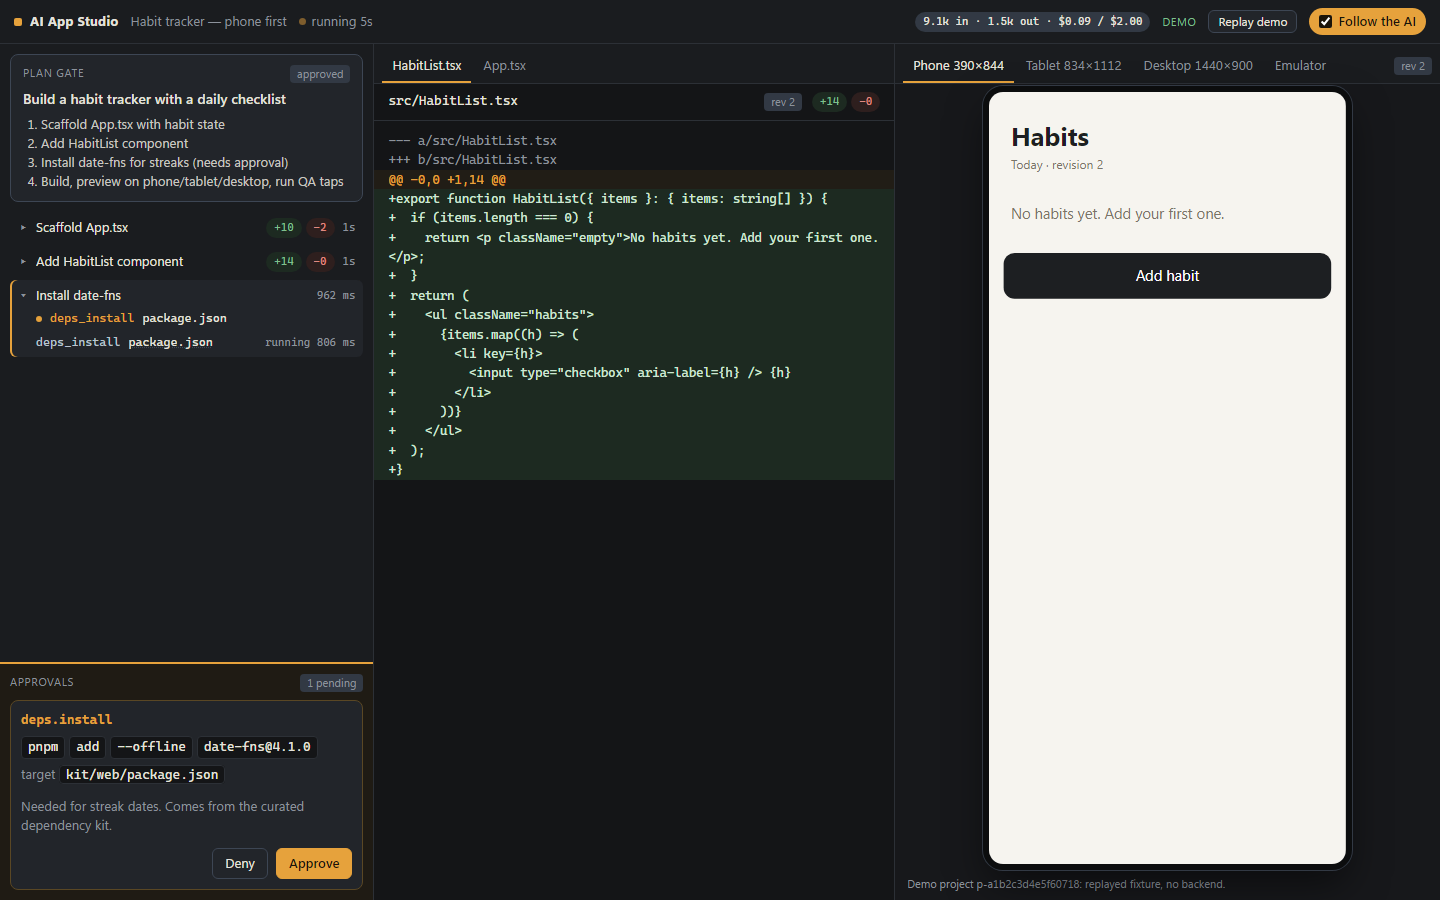
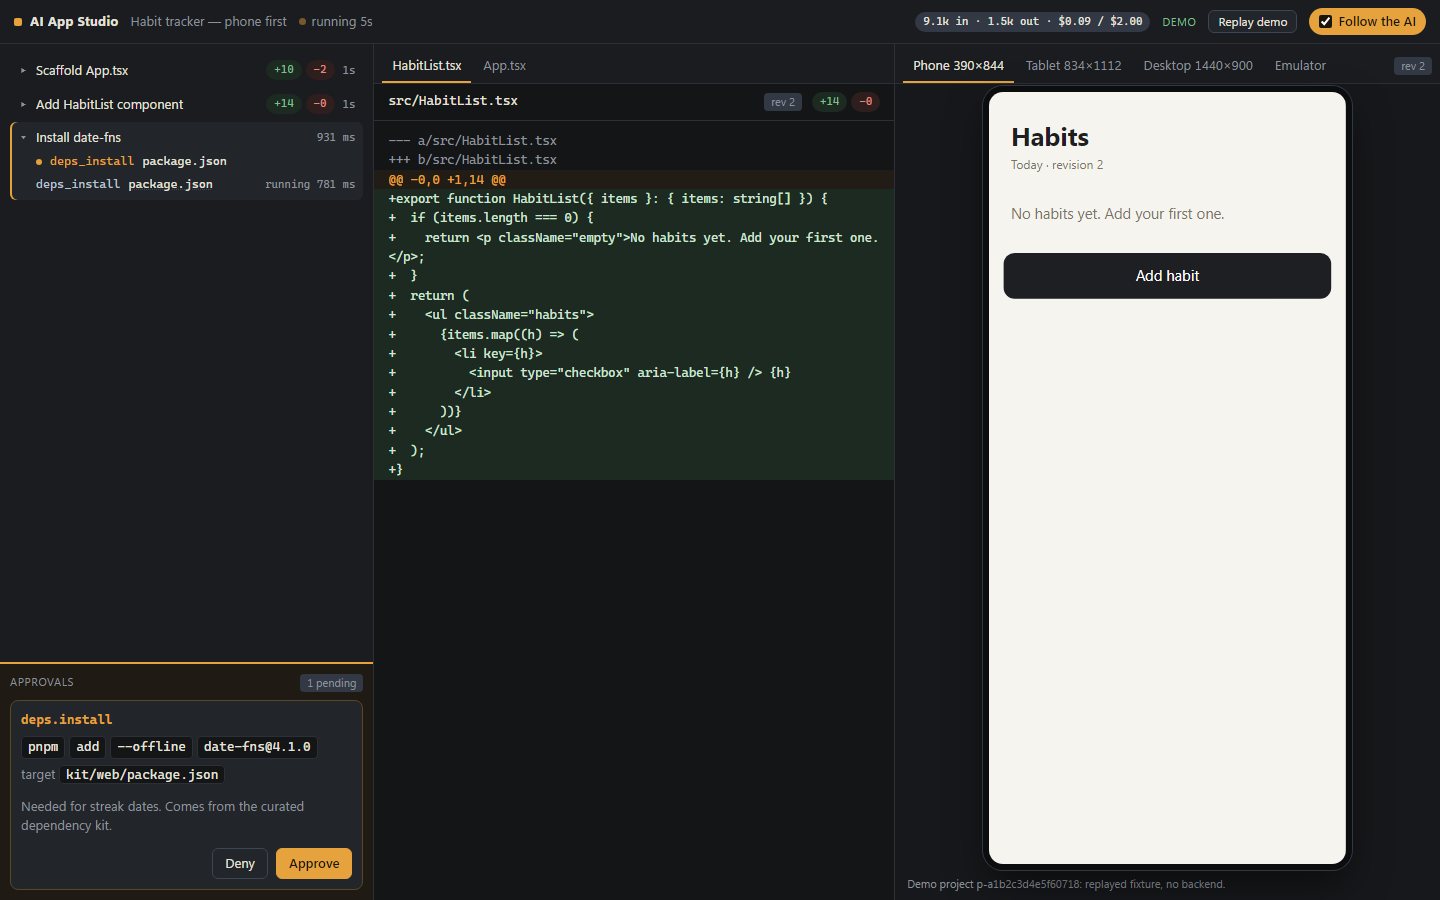
AI App Studio S6: documentatie (S6.md, CHECKPOINT, DESIGN 5.3 reziduuri, captura ecranului real) si todo

diff --git a/03_IMPLEMENTATION/products/ai_app_studio/docs/slices/S6.md b/03_IMPLEMENTATION/products/ai_app_studio/docs/slices/S6.md
@@ -1,0 +1,91 @@
+# Slice S6 - built-in runner + wiring into one app (2026-11-23)
+
+Branch `claude/ai-app-studio` (local commits only, nothing pushed). Builds on S1-S5.
+
+## What
+- `core/aas_runner/` - built-in runner. `claude.py`: `build_argv` (DESIGN 6.1: prompt on stdin, `--strict-mcp-config`
+  with only `ai-app-studio`, `--tools ""` + allow-list of the catalogue tools, `--disallowedTools` for every built-in
+  that touches files/shell/network, `--setting-sources ""`, `--settings` studio file, `--max-turns`, `--max-budget-usd`,
+  `--include-partial-messages`), `runner_env` (SYSTEMROOT, PATH, USERPROFILE, APPDATA, LOCALAPPDATA only; no `AAS_*`, no
+  tokens), `Runner.start/stop/wait/is_running` (cwd = fresh EMPTY `<data>/runner/runs/<runId>`, TEMP outside it, process
+  tree killed on stop/timeout, grant and run dir removed at the end). `streamjson.py`: `StreamMapper` (per event type
+  field allow-list; thinking dropped and counted; tool results = size + sha256 + 300-char redacted excerpt; `result` ->
+  `cost.update` + `run.finished`; text deltas line-buffered and redacted; unknown types counted into one
+  `stream.dropped`), `check_init` (P5e/N3: `mcp_servers` must be exactly `["ai-app-studio"]`, tools a subset of the
+  catalogue, else the run is aborted and the process killed).
+- `core/studio_core/run_grants.py` - the built-in runner is not an "external" MCP client: its MCP child gets a per-run
+  secret in its own env; only sha256 of it is stored while the run lives; the MCP server accepts a call with a live
+  grant (bound to ONE project) or when the owner enabled external MCP (PX1 unchanged).
+- MCP server (`apps/mcp-app/server.py`): grant/owner guard, `plan_submit`, `app_build` (real), `device_start|install|tap|
+  screenshot`, `file.diff` events on `code_write_file`, `project_list` limited to the run's project under a grant.
+- `core/aas_build/service.py` - project files + studio kit -> `docker run --network none` (S3 runner) -> `site-<ms>` +
+  atomic `current` pointer -> preview server; events `build.started`, `build.log`, `build.error`, `build.finished`,
+  `preview.captured`; one build at a time; a failed build keeps the last good site. `python -m aas_build` = preview
+  server (17880). N1: the S3 watchdog now also kills the container above `max_files` (and `resolve_image`).
+- `core/aas_device/service.py` - device tools behind the owner setting `device_enabled` (default OFF, owner-only
+  route `PUT /api/v1/settings/device`), refused below 8 GiB free on the system/LOCALAPPDATA drive or when the S5
+  preflight fails; only `apps.device_host.launcher.preflight` / `DeviceSession` are used.
+- Backend (follow-ups from S2/S4 reviews): `GET /approvals` (generic + `kind:"plan"` records), `POST /approvals/<id>/decide`,
+  `POST /plans/<id>/decide` (`approve` | `edit`), `POST /runs`, `POST /runs/<id>/stop` - owner token only, agent actors
+  refused by policy (`plans.py`); activity kinds `cost.update`, `preview.captured` (migration 0004) and field names the
+  UI reads (`title`, `budgetUsd`, `stepId`, `callId`, `target`, `line`, `path`, `revision`); sanitiser: DCS stops at
+  newline/CR/end, OSC also at CR, U+034F/U+115F/U+180E/U+3164 dropped; `audit.redact` F1 (digest kept under hash keys)
+  and F2 (keys sanitised first). `AAS_DEV_ORIGINS` (strict `http://127.0.0.1:<port>`, process env only) lets the vite
+  dev/preview UI call the API; the preview server's `frame-ancestors` gets the same origins (opt-in).
+- Desktop: `clean()` drops and `inspect()` flags the four fillers, CSI needs its final byte, `prj_<hex>` ids map to the
+  preview host label, iframes reload on every `preview.captured`/`preview.revision` (`previewNonce`; a `file.diff`
+  already raises the revision before the build is done), Tauri attach mode (`AAS_ATTACH_BACKEND=1`, token on stdin),
+  the shell now starts `python -m apps.backend` (the old `main.py` path could not import its package),
+  `apps/desktop/scripts/studio_window.mjs` (Chromium window with the session injected, token on stdin).
+- `scripts/run_studio.ps1` - one command: token (CSPRNG, memory only) -> backend on stdin -> preview server -> vite dev ->
+  Tauri debug exe (or Chromium window) with the same token on stdin -> everything stopped on exit. `-Prompt/-PromptFile`
+  creates a project and starts a run; `-RunnerCli` swaps the agent CLI (fake fixture); `-NoUi` for tests.
+
+## How to run
+```
+$env:TMP = $env:TEMP = "D:\w\_aas_tmp6"; $env:UV_CACHE_DIR = "D:\w\_aas_uvcache"
+cd 03_IMPLEMENTATION\products\ai_app_studio
+uv run pytest -q                                      # 399 passed, 20 skipped (device/local-gate probes)
+cd apps\desktop; pnpm exec tsc --noEmit; pnpm exec vitest run; pnpm exec playwright test
+# end to end with the real desktop window and the fake CLI:
+$env:AAS_TAURI_EXE = "<cargo target>\debug\ai-app-studio.exe"   # cargo build --locked in apps/desktop/src-tauri
+scripts\run_studio.ps1 -Ui tauri -PromptFile demo_prompt.json -RunnerCli '["<venv python>","tests/fixtures/fake_claude.py"]'
+# real agent: scripts\run_studio.ps1 -Prompt "Build a habit tracker" (needs the owner's Claude login)
+```
+
+## Results
+- Red runs: runner/streamjson/P5e tests -> 3 collection errors (`No module named 'aas_runner'`); N1 watchdog test ->
+  `Regex pattern did not match` (the file flood was not killed); wiring tests -> 2 collection errors (`aas_device`);
+  vitest sanitiser follow-ups -> 5 failed, `prj_` preview id -> 2 failed, preview nonce -> 1 failed; preview frame
+  ancestors -> `TypeError ... extra_frame_ancestors`; the first UI screenshot showed `OFFLINE` (origin not allowed) and a
+  blank phone frame (frame-ancestors), both fixed. (The `test_s6_backend.py` file was written before `plans.py` but its
+  first run was already green after the implementation; no separate red capture.)
+- `uv run pytest -q`: 399 passed, 20 skipped (baseline 336 passed). `apps/desktop`: tsc clean, vitest 82 passed, Playwright
+  11 passed. `check_vendored` OK in both modes, `gen_vendored --check` OK.
+- P5e/N3 against the real CLI 2.1.328 (`tests/runner/test_p5e_real_cli.py`): positive control - with a fixture
+  `CLAUDE_CONFIG_DIR` holding a user-scope MCP server `canary` and a `CLAUDE.md` marker, plain `claude -p ... stream-json`
+  lists `canary` in `system/init`; with the runner flags `mcp_servers == ["ai-app-studio"]` and the tool list passes
+  `check_init`. `--setting-sources ""` is accepted by this CLI (DESIGN 9.1 answered). The CLAUDE.md marker is not visible
+  in init, so only the MCP half of the fixture is observable.
+- End to end (`tests/e2e/test_s6_e2e.py`, 12 s): create project -> `POST /runs` -> fake CLI calls the REAL MCP server
+  (`plan_submit`, `project_inspect`, `code_write_file`, `app_build`) -> file written -> real offline Docker build ->
+  `p-<id>.localhost` serves the bundle -> second run -> bundle replaced -> the UI shows steps, diff, build log, cost and
+  the plan card. `S6-e2e.png` = the REAL Tauri debug window (screen capture, `scripts/run_studio.ps1 -Ui tauri`);
+  `S6-e2e-playwright.png` = headless Chromium against `vite preview` (test run).
+- `tests/e2e/test_run_studio_script.py`: `run_studio.ps1 -NoUi` serves health, no 40+ hex string on any studio command
+  line, `/projects` without a token is 401, ports are free again after the backend dies.
+
+## Residuals / open items
+- The UI has no "start a run" control yet: runs start from `run_studio.ps1 -Prompt`, `POST /api/v1/runs` or an owner
+  enabled external Claude Code. A prompt box is the next UI task.
+- P5f is NOT enforced: `plan_submit` + owner decision exist, but `code_write_file` does not require an approved plan and
+  the runner does not wait for `plan.decide` (two-phase run) - needs the owner toggle (DESIGN 5.5).
+- `app_build` streams its log only after the build ends (the S3 runner keeps ring buffers); Android build, device install
+  of an APK and `preview_capture` are still `unavailable`; all device probes stay deferred (C: < 8 GiB at S5 time).
+- `tool.call` rows written by `Studio.operation` carry no run id/callId (DESIGN 5.3 residual 4); file bodies are not
+  streamed as `agent.typing` (only text deltas are).
+- Real agent runs were not executed (no model spend); everything above used the fake CLI and the real CLI only up to `system/init`.
+- Playwright needs `chromium_headless_shell` of the pinned version (`playwright install chromium-headless-shell`);
+  here it lives in `D:\w\_aas_pw` (`PLAYWRIGHT_BROWSERS_PATH`). Headed Chromium 1255 crashed at start on this OS build
+  (exit 0x80000003); the Tauri window is the owner-facing UI, so `-Ui window` is untested.
+- Caches kept on D: (owner rule): `_aas_uvcache`, `_aas_pnpm`, `_aas_pw`, `_aas_cargo_target`, `_aas_cargo_home`.

diff --git a/03_IMPLEMENTATION/products/ai_app_studio/docs/CHECKPOINT.md b/03_IMPLEMENTATION/products/ai_app_studio/docs/CHECKPOINT.md
@@ -100,3 +100,18 @@ Next after S2 (appended)
 - S3 = build pipeline (Docker, offline web build with the studio-owned kit) + preview server (17880) + CSP header.
 - Then device host/emulator, runner, desktop UI as in DESIGN.md; each slice local only.
 - Last: final gate as in Key facts (fable-consultant, then Codex/Gemini via agent-bridge, repeat until clean), then push + PR + CI + merge.
+
+Update 2026-11-23 (S6 done, local commits on claude/ai-app-studio, nothing pushed)
+- S6 = built-in runner + wiring, see docs/slices/S6.md: core/aas_runner (Claude Code CLI -> stream-json -> activity_events,
+  P5e/N3 probe with positive control against the real CLI 2.1.328, fake CLI fixture for tests), run grants for the runner's
+  MCP child, MCP tools plan_submit/app_build (real offline Docker build -> preview)/device_*, device tools behind an owner
+  setting (off by default, off below 8 GiB free or on failed preflight), N1 (watchdog counts files), backend routes
+  approvals/plans/runs/device setting (owner only), UI field names + migration 0004, sanitiser fixes, audit.redact F1/F2,
+  DESIGN 5.3 residuals, desktop fixes (fillers, CSI, prj_ ids, preview reload nonce), Tauri attach mode,
+  scripts/run_studio.ps1 (token on stdin everywhere; Tauri debug exe or Chromium window).
+- Verified: uv run pytest -q 399 passed / 20 skipped; desktop tsc + vitest 82 + Playwright 11; check_vendored both modes and
+  gen_vendored --check OK; end to end with the fake CLI and the real Tauri window: docs/slices/S6-e2e.png.
+- Open: UI prompt box (runs start from run_studio.ps1 -Prompt / POST /runs); P5f plan gate not enforced on code_write_file;
+  Android build and preview_capture still unavailable; S5 live device probes still deferred; real (paid) agent run not done.
+- Next = final gate: fable-consultant verification of the whole app, its open questions to Codex/Gemini via agent-bridge,
+  security-lockdown skill, fix and repeat, then push + PR #413 + vault CI + merge.

diff --git a/03_IMPLEMENTATION/products/ai_app_studio/docs/DESIGN.md b/03_IMPLEMENTATION/products/ai_app_studio/docs/DESIGN.md
@@ -280,6 +280,18 @@ field) or redacted as free text (inside an input). Value patterns: `sk-ant-[\w-]
 `(?i)bearer\s+\S{16,}`, `(?i)(password|passwd|secret|token|api[_-]?key)\s*[:=]\s*\S+`, the live owner token
 (exact), hex/base64 runs >=40 chars with entropy >4.0 -> `[REDACTED:<kind>]`. The same function is added to
 `audit.redact` (key-name only today, audit.py:18-30) so audit rows and tool_executions get value redaction too.
+S6 updates: DCS/SOS/PM/APC bodies stop at newline, CR, ST or the end of the string (the newline is kept); an OSC
+also ends at CR; U+034F, U+115F, U+180E, U+3164 are dropped (the desktop client drops AND flags them, so Approve is
+disabled); `audit.redact` sanitises dict keys before the secret-key check and keeps a valid digest under a hash-named
+key verbatim (S2 review F1/F2); the client's CSI pattern requires its final byte.
+Residuals recorded (accepted, owner decision pending in the final gate): (1) a 64-hex value under a hash-named key
+(`sha256`, `*Sha256`) is kept verbatim, so a secret that is exactly 64 lowercase hex characters stored under such a
+key is not redacted - the typed fields only ever receive digests the studio computed itself; (2) the `stream.dropped`
+counter is in memory per process, so a process that dies after a failed write loses the pending count (the
+sequence-number gap marker still shows the hole); (3) the runner counts unknown stream-json fields per run and writes
+ONE `stream.dropped` row at the end of the run, not one per field; (4) `tool.call` rows written by
+`Studio.operation` carry no run id and no `callId`, so the UI shows them as separate rows next to the runner's own
+`tool.call`/`tool.result` pair of the same MCP call.
 ### 5.4 Transport (P6d, P6f)
 WS `/api/v1/events?afterSeq=N` behind BoundaryMiddleware (AWS:apps/backend/security.py:30-103: exact Host,
 Origin, token). The client offers two subprotocols: the fixed `aas.v1` and `aas.token.<t>` (order-free); the

diff --git a/00_GOVERNANCE/coordination/tasks/todo-claude-ai-app-studio.md b/00_GOVERNANCE/coordination/tasks/todo-claude-ai-app-studio.md
@@ -37,3 +37,15 @@ Update 2026-11-23 ~03:00:
   narrowed capability); S4.md says 6 vitest files, actual 5.
 - S5 claude/aas-s5 @ cfcdf2c3b: fixes done (80 tests), live probes DEFERRED until C: >= 8 GB; round-2 review running.
 - S3 claude/aas-s3: finishing worker running (Docker back up).
+
+Update 2026-11-23 ~04:00 (S6 done, local commits on claude/ai-app-studio, nothing pushed):
+- S6 delivered (docs/slices/S6.md): built-in runner + P5e/N3 probe (real CLI, positive control), run grants, MCP plan_submit/
+  app_build/device tools, build->preview wiring, device setting gates, N1, backend approvals/plans/runs routes, activity
+  field names + migration 0004, sanitiser/audit F1/F2, DESIGN 5.3 residuals, UI fixes (fillers, CSI, prj_ ids, preview
+  reload), Tauri attach mode + debug build launched (get_session works), scripts/run_studio.ps1, end-to-end with the fake CLI
+  and a screenshot of the real desktop window (docs/slices/S6-e2e.png). uv run pytest -q: 399 passed, 20 skipped.
+- S4 and S2 follow-ups (F1/F2/F3) are closed; DESIGN 5.3 residuals recorded.
+- Open: UI prompt box; P5f plan gate on code_write_file; Android build / preview_capture unavailable; S5 live probes deferred
+  (C: < 8 GiB); real paid agent run not done; S5 live-gate results may still arrive on claude/aas-s5.
+- NEXT = final gate: fable-consultant verifies the complete app; its open questions go via agent-bridge to Codex (ChatGPT) and
+  Gemini; fix and repeat until clean; security-lockdown skill; then push + PR #413 + vault CI + merge.
